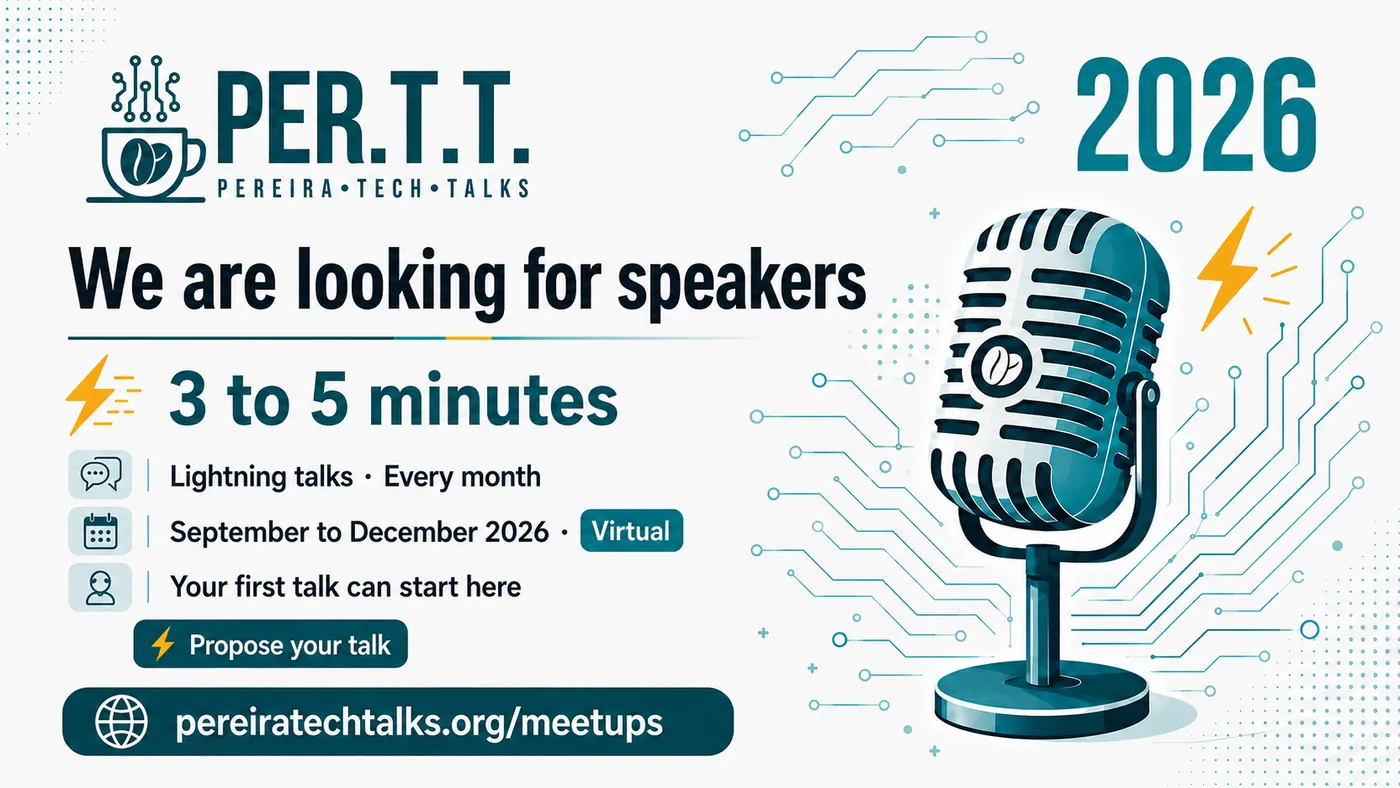
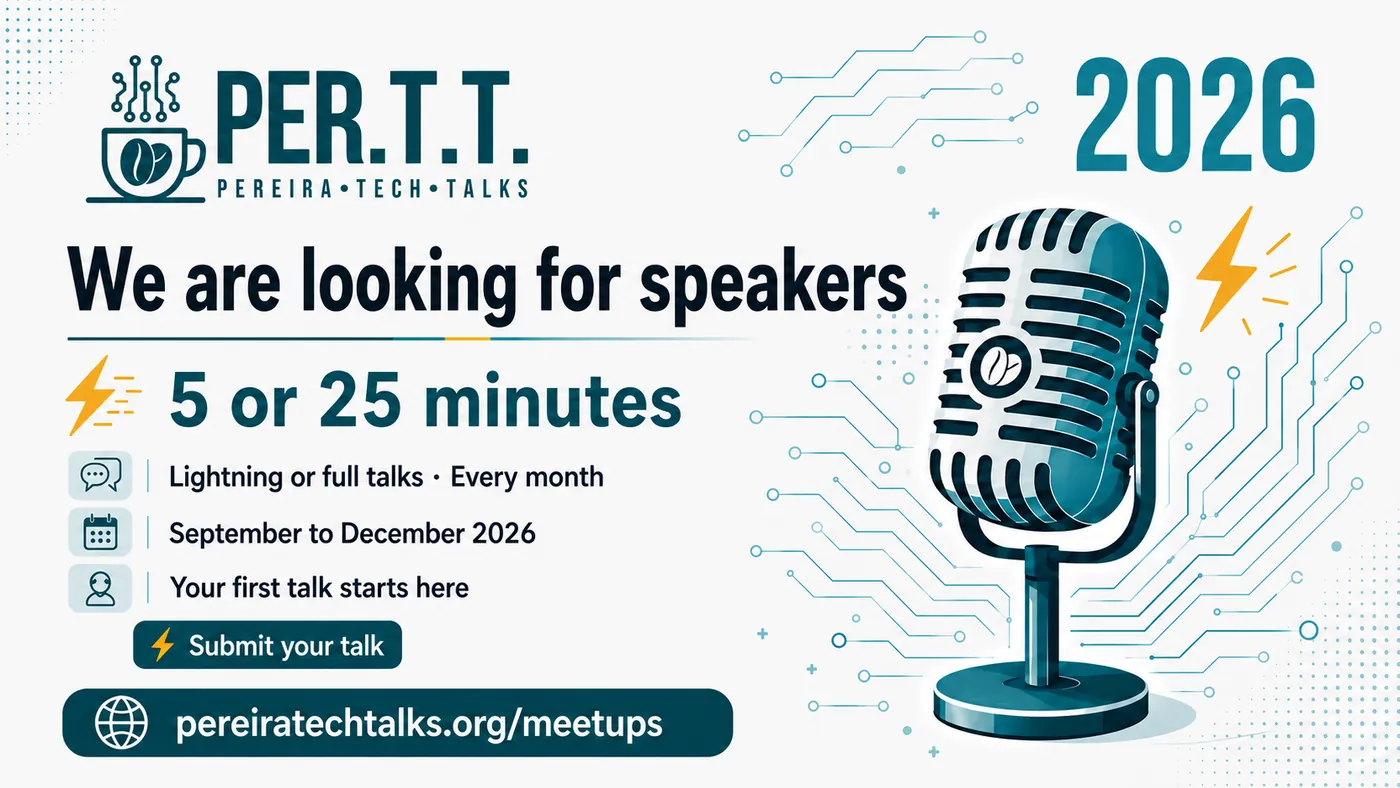
content(meetups,cfs): new modal flyer, drop the redundant notes, rework November
The modal flyer is regenerated in both languages: "5 o 25 minutos" instead of
"3 a 5", "Relámpago o completas" instead of lightning-only, and the Virtual pill
is gone -- it covered four months and three of them have no mode decided yet.
Its alt text now matches the image line for line.

The callForSpeakers note came out of October, November and December. It was
saying what the panel already states as format chips and what the body already
says in prose, so it read as the same sentence three times on one screen.
September keeps its note, which says something the rest of its page does not.

November stops being "the night we dedicate to what went wrong". It now opens
the way October does -- the month is here, the call is open, we want your voice
-- but on its own angle: by November you have solved something you could not
solve in January, and the topic you think is too small is usually the one
somebody else has been hunting for.

953 tests, 185 responsive, 40 forms, four content gates clean.

diff --git a/src/content/meetups/2026-11-25_november-meetup-2026.md b/src/content/meetups/2026-11-25_november-meetup-2026.md
@@ -3,8 +3,8 @@ title:
   en: "November meetup"
   es: "Meetup de noviembre"
 description:
-  en: "The call is open for November, the night we dedicate to what went wrong. Tell us what breaking things taught you, in 3 to 5 minutes or in 25."
-  es: "Convocatoria abierta para noviembre, la noche que dedicamos a lo que salió mal. Cuéntanos qué aprendiste rompiendo cosas, en 3 a 5 minutos o en 25."
+  en: "The call for talks is open for our November meetup. Bring what you have been working on this year — as a lightning talk of 3 to 5 minutes or a full one of 25."
+  es: "La convocatoria de charlas está abierta para el meetup de noviembre. Trae eso en lo que has trabajado este año, en charla relámpago de 3 a 5 minutos o completa de 25."
 pubDate: 2026-11-25
 date: 2026-11-25
 dateConfidence: confirmed
@@ -24,22 +24,21 @@ callForSpeakers:
     - lightning
     - regular
   closesAt: 2026-11-20
-  note:
-    en: "Nothing leaves this room badly. Five minutes or twenty-five — we are here for the lesson, not the blame."
-    es: "De aquí nadie sale mal parado. Cinco minutos o veinticinco: venimos por la lección, no por el culpable."
 status: announced
 draft: false
 ---
 
 ## Meetup de noviembre
 
-Llega noviembre y abrimos la convocatoria para la noche que más ganas tenemos de organizar: la que dedicamos a lo que salió mal. Postula tu charla y ven a contarnos cómo lo rompiste.
+Llega noviembre, entramos en la recta final del año y abrimos la convocatoria. Queremos una noche con muchas voces en el escenario, y para eso necesitamos la tuya: postula tu charla y ven a contarnos en qué has andado.
 
-El bug que se comió una semana. El despliegue que se cayó un viernes. La migración que tocó revertir a medianoche. La decisión de arquitectura que hoy pagas en intereses. Casi todo lo que se cuenta en público son éxitos, y así no aprende nadie: los errores se quedan en el chat privado del equipo y seis meses después alguien más los repite exactamente igual.
+A estas alturas del año ya resolviste algo que al principio no sabías cómo resolver. Puede ser la herramienta que terminaste adoptando, el problema de rendimiento que por fin entendiste, la parte del sistema que te tocó aprender a la fuerza, o algo que probaste por curiosidad y resultó mejor de lo que esperabas. Eso es exactamente lo que queremos escuchar.
 
-Aquí no. Cuéntalo en **charla relámpago de 3 a 5 minutos** si la lección cabe en una frase, o en **charla completa de 25 minutos** si el desastre fue largo y tiene capas. Tú eliges el formato.
+Y si crees que tu tema es demasiado pequeño para una charla, casi siempre no lo es: lo que a ti ya te parece obvio suele ser justo lo que otra persona en la sala lleva semanas buscando.
 
-Y que quede claro: de aquí nadie sale mal parado. Venimos por la lección, no por el culpable.
+Tú eliges cuánto tiempo necesita: **charla relámpago de 3 a 5 minutos** para ir al grano, o **charla completa de 25 minutos** si quieres desarrollarla con calma.
+
+Si nunca has presentado, este es un buen momento para estrenarte: te acompañamos a armar la charla y a ensayarla antes.
 
 La fecha está confirmada. Todavía estamos definiendo si nos vemos en una sala o en línea, y lo anunciamos aquí en cuanto lo sepamos.
 
@@ -47,4 +46,4 @@ La fecha está confirmada. Todavía estamos definiendo si nos vemos en una sala 
 
 ### Convocatoria
 
-Recibimos propuestas hasta el viernes 20 de noviembre, en charla relámpago o en formato completo. Trae tu error favorito: el que más te dolió o el que más te enseñó.
+Recibimos propuestas hasta el viernes 20 de noviembre, en charla relámpago o en formato completo. Elige el formato que le sirva a tu idea y postúlala.

diff --git a/src/content/meetups/2026-11-25_november-meetup-2026.en.md b/src/content/meetups/2026-11-25_november-meetup-2026.en.md
@@ -1,12 +1,14 @@
 ## November meetup
 
-November is here and the call is open for the night we most look forward to running: the one we dedicate to what went wrong. Send us your talk and come tell us how you broke it.
+November is here, we are heading into the last stretch of the year, and the call for talks is open. We want a night with many voices on stage, and for that we need yours: send us your talk and come tell us what you have been up to.
 
-The bug that ate a week. The deploy that fell over on a Friday. The migration you had to roll back at midnight. The architecture decision you are still paying interest on. Almost everything told in public is a success story, and nobody learns anything that way: mistakes stay in a team's private chat, and six months later somebody else repeats them exactly.
+By this point in the year you have solved something you did not know how to solve when it started. It might be the tool you ended up adopting, the performance problem you finally understood, the part of the system you had to learn the hard way, or something you tried out of curiosity that turned out better than expected. That is exactly what we want to hear.
 
-Not here. Tell it as a **lightning talk of 3 to 5 minutes** if the lesson fits in a sentence, or as a **full talk of 25 minutes** if the disaster ran long and has layers. You pick the format.
+And if you think your topic is too small for a talk, it almost never is: what already feels obvious to you is usually the very thing someone else in the room has been hunting for.
 
-And to be clear: nothing leaves this room badly. We are here for the lesson, not for the culprit.
+You pick how long it needs: a **lightning talk of 3 to 5 minutes** to get straight to the point, or a **full talk of 25 minutes** if you want to develop it properly.
+
+If you have never presented before, this is a good moment to start: we will help you shape the talk and rehearse it beforehand.
 
 The date is confirmed. We are still deciding whether we meet in a room or online, and we will announce it here as soon as we know.
 
@@ -14,4 +16,4 @@ See you there!
 
 ### Call for speakers
 
-We are taking proposals until Friday 20 November, as a lightning talk or in the full format. Bring your favourite mistake: the one that hurt most, or the one that taught you most.
+We are taking proposals until Friday 20 November, as a lightning talk or in the full format. Pick whichever length serves your idea and send it in.

diff --git a/src/content/meetups/2026-12-16_december-meetup-2026.md b/src/content/meetups/2026-12-16_december-meetup-2026.md
@@ -24,9 +24,6 @@ callForSpeakers:
     - lightning
     - regular
   closesAt: 2026-12-11
-  note:
-    en: "The last night of the year. Bring what you built, learned or abandoned — in 5 minutes or in 25."
-    es: "La última noche del año. Trae lo que construiste, aprendiste o abandonaste, en 5 minutos o en 25."
 status: announced
 draft: false
 ---

diff --git a/src/content/meetups/2026-10-21_october-meetup-2026.md b/src/content/meetups/2026-10-21_october-meetup-2026.md
@@ -24,9 +24,6 @@ callForSpeakers:
     - lightning
     - regular
   closesAt: 2026-10-16
-  note:
-    en: "Five minutes or twenty-five — you choose. If it is technical and you care about it, it fits here."
-    es: "Cinco minutos o veinticinco: tú eliges. Si es técnico y te importa, cabe aquí."
 status: announced
 draft: false
 ---
